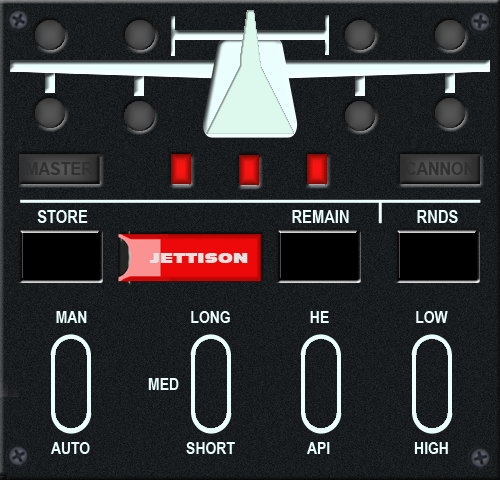
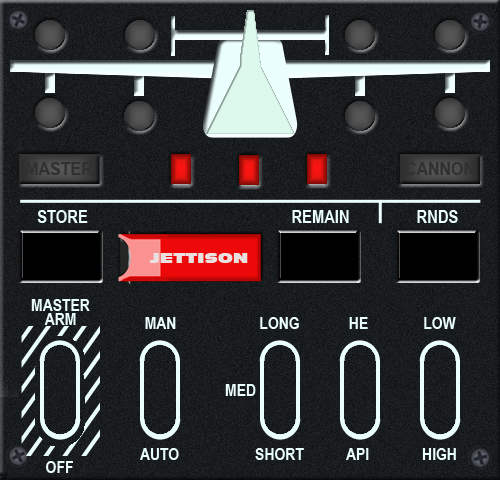
Weapon Panel #2 on KA50

diff --git a/Ka50-Pit.html b/Ka50-Pit.html
@@ -106,7 +106,7 @@
 		
 		<area shape="rect" coords="10,20,90,80" href="javascript:menu_Toggle('Light')">
 		<area shape="rect" coords="10,80,90,120" href="javascript:menu_Toggle('Vierge')">
-		<area shape="rect" coords="10,120,90,180" href="javascript:menu_Toggle('Electric_DC')">
+		<area shape="rect" coords="10,120,90,180" href="javascript:menu_Toggle('Vierge')">
 		<area shape="rect" coords="10,180,90,220" href="javascript:menu_Toggle('Start')">
 		<area shape="rect" coords="10,220,90,280" href="javascript:menu_Toggle('Vierge')">
 		<area shape="rect" coords="10,280,90,320" href="javascript:menu_Toggle('Vierge')">		
@@ -115,8 +115,8 @@
 		<area shape="rect" coords="10,420,90,480" href="javascript:menu_Toggle('Abris')">
 		<area shape="rect" coords="10,480,90,520" href="javascript:menu_Toggle('Vierge')">
 		<area shape="rect" coords="10,520,90,580" href="javascript:menu_Toggle('Datalink')">
-		<area shape="rect" coords="10,580,90,620" href="javascript:menu_Toggle('Weapon')">
-		<area shape="rect" coords="10,620,90,680" href="javascript:menu_Toggle('UV26')">
+		<area shape="rect" coords="10,580,90,620" href="javascript:menu_Toggle('Vierge')">
+		<area shape="rect" coords="10,620,90,680" href="javascript:menu_Toggle('Combat')">
 		<area shape="rect" coords="10,680,90,720" href="javascript:menu_Toggle('Vierge')">
 		<area shape="rect" coords="10,720,90,780" href="javascript:menu_Toggle('Vierge')">
 		<area shape="rect" coords="10,780,90,820" href="javascript:menu_Toggle('Vierge')">
@@ -1086,9 +1086,7 @@
 			<!-- Bouton Mun,Tir,Ammo,Rafale -->
 			<area shape="rect" coords="40,300,100,335" href="javascript:CmdDCSRaw('11200501')">
 			<area shape="rect" coords="40,430,100,465" href="javascript:CmdDCSRaw('11200500')">
-			<area shape="rect" coords="185,300,240,335" href="javascript:CmdDCSRaw('41200402')">
-			<area shape="rect" coords="130,360,190,400" href="javascript:CmdDCSRaw('41200401')">
-			<area shape="rect" coords="185,430,240,465" href="javascript:CmdDCSRaw('41200400')">
+
 			<area shape="rect" coords="290,300,350,335" href="javascript:CmdDCSRaw('11200601')">
 			<area shape="rect" coords="290,430,350,465" href="javascript:CmdDCSRaw('11200600')">
 			<area shape="rect" coords="400,300,460,335" href="javascript:CmdDCSRaw('11202001')">
@@ -1156,21 +1154,152 @@
 	<SPAN style="position: absolute; left: 280px; top: 230px; width: 70px; height: 50px ; color:green; text-align:right; font-size:300%" id="Ammo_remain"> </SPAN>
 	<SPAN style="position: absolute; left: 400px; top: 230px; width: 70px; height: 50px ; color:green; text-align:right; font-size:300%" id="Ammo_rnds"> </SPAN>
 	
+		
+	<!-- Switch Master Arm -->
+	<SPAN style="position: absolute; left: 40px; top: 340px; width: 40px; height: 100px">
+	<img src="images/switch/Switch-Metal-D4.png" width="40" height="100" id="SW_Master" usemap="#wpn_marm"> 
+	<map name="wpn_marm">	
+	<area shape="rect" coords="0,0,40,49"  href="javascript:CmdDCSRaw('11200101')"> 
+	<area shape="rect" coords="0,50,40,100"  href="javascript:CmdDCSRaw('11200100')"> 
+	</map>
+	</SPAN>
+	
+	<SPAN style="position: absolute; left: 140px; top: 340px; width: 40px; height: 100px">
+	<img src="images/switch/Switch-Metal-U4.png" width="40" height="100" id="Wpn_Man" usemap="#SWpn_Man"> 
+	<map name="SWpn_Man">	
+	<area shape="rect" coords="0,0,40,49"  href="javascript:CmdDCSRaw('11200501')"> 
+	<area shape="rect" coords="0,50,40,100"  href="javascript:CmdDCSRaw('11200500')"> 
+	</map>
+	</SPAN>
+	
+	<SPAN style="position: absolute; left: 260px; top: 340px; width: 40px; height: 100px">
+	<img src="images/switch/Switch-Metal-C4V.png" width="40" height="100" id="Wpn_Burst" usemap="#SWpn_Burst"> 
+	<map name="SWpn_Burst">	
+	<area shape="rect" coords="0,0,40,32"  href="javascript:CmdDCSRaw('41200402')"> 
+	<area shape="rect" coords="0,33,40,66"  href="javascript:CmdDCSRaw('41200401')"> 
+	<area shape="rect" coords="0,67,40,100"  href="javascript:CmdDCSRaw('41200400')"> 
+	</map>
+	</SPAN>
+	
+	<SPAN style="position: absolute; left: 341px; top: 340px; width: 40px; height: 100px">
+	<img src="images/switch/Switch-Metal-D4.png" width="40" height="100" id="Wpn_Ammo" usemap="#SWpn_Ammo"> 
+	<map name="SWpn_Ammo">	
+	<area shape="rect" coords="0,0,40,49"  href="javascript:CmdDCSRaw('11200601')"> 
+	<area shape="rect" coords="0,50,40,100"  href="javascript:CmdDCSRaw('11200600')"> 
+	</map>
+	</SPAN>
+	
+	<SPAN style="position: absolute; left: 420px; top: 340px; width: 40px; height: 100px">
+	<img src="images/switch/Switch-Metal-D4.png" width="40" height="100" id="Wpn_Rof" usemap="#SWpn_Rof"> 
+	<map name="SWpn_Rof">	
+	<area shape="rect" coords="0,0,40,49"  href="javascript:CmdDCSRaw('11202001')"> 
+	<area shape="rect" coords="0,50,40,100"  href="javascript:CmdDCSRaw('11202000')"> 
+	</map>
+	</SPAN>
+	
+
+</div>
+
+<!-- xxxxxxxxxxxxxxxxxxxxxxxxxxxxxxxxxxxxxxxxxxxxxxxxxxxxxxxxxxxxxxxxxxxxxxxxxxxxxxxxxxxxxxxxxxxxxxxxxxxxx -->
+
+<div id="Panel_Weapon_2">
+
+	<img src="images/weapon/Weapon_Panel_2.png" width="500" height="300" usemap="#Weapon2_P">
+
+	<map name="Weapon2_P">
+
+			<!-- Bouton Autoturn, AAHO, AA, MOV, RESET -->
+			<area shape="rect" coords="120,15,190,85" href="javascript:CmdDCSRaw('51201001')">
+			<area shape="rect" coords="220,15,290,85" href="javascript:CmdDCSRaw('51201201')">
+			<area shape="rect" coords="120,95,190,165" href="javascript:CmdDCSRaw('51201101')">
+			<area shape="rect" coords="220,95,290,165" href="javascript:CmdDCSRaw('51201301')">
+			<area shape="rect" coords="400,200,470,270" href="javascript:CmdDCSRaw('51201601')">
+			
+			
+			<!-- Selecteur du mode Canon-->
+			<area shape="circle" coords="360,40,20" href="javascript:CmdDCSRaw('41201400')">
+			<area shape="circle" coords="415,40,20" href="javascript:CmdDCSRaw('41201401')">
+			<area shape="circle" coords="450,70,20" href="javascript:CmdDCSRaw('41201402')">
+			<area shape="circle" coords="470,100,20" href="javascript:CmdDCSRaw('41201403')">
+			<area shape="circle" coords="475,145,20" href="javascript:CmdDCSRaw('41201404')">
+		
+	</map> 
+	
+	<!-- Voyant Mode de Tir -->
+	
+	<SPAN style="position: absolute; left: 130px; top: 60px; width: 50px; height: 16px">
+	<img src="images/navigation/Led_Btn_Vert.png" width="50" height="16" id="wpn_autoturn">
+	</SPAN>
+	<SPAN style="position: absolute; left: 230px; top: 60px; width: 50px; height: 16px">
+	<img src="images/navigation/Led_Btn_Vert.png" width="50" height="16" id="wpn_AAHO">
+	</SPAN>
+	<SPAN style="position: absolute; left: 130px; top: 140px; width: 50px; height: 16px">
+	<img src="images/navigation/Led_Btn_Vert.png" width="50" height="16" id="wpn_AA">
+	</SPAN>
+	<SPAN style="position: absolute; left: 230px; top: 140px; width: 50px; height: 16px">
+	<img src="images/navigation/Led_Btn_Vert.png" width="50" height="16" id="wpn_MOVGRND">
+	</SPAN>
+	<SPAN style="position: absolute; left: 410px; top: 245px; width: 50px; height: 16px">
+	<img src="images/navigation/Led_Btn_Vert.png" width="50" height="16" id="wpn_RESET">
+	</SPAN>
+		
 	<!-- Selecteur Man/Auto-->
-	<SPAN style="position: absolute; left: 32px; top: 345px; width: 80px; height: 80px">
-	<img src="images/Switch-Metal-U3.gif" width="80" height="80" id="Wpn_Man"> </SPAN>
+	<!-- Selecteur Train/Off -->
+	<SPAN style="position: absolute; left: 40px; top: 35px; width: 40px; height: 100px">
+	<img src="images/switch/Switch-Metal-D4.png" width="40" height="100" id="SW_wpn_train" usemap="#wpn_train"> 
+	<map name="wpn_train">	
+	<area shape="rect" coords="0,0,40,49"  href="javascript:CmdDCSRaw('11200901')"> 
+	<area shape="rect" coords="0,50,40,100"  href="javascript:CmdDCSRaw('11200900')"> 
+	</map>
+	</SPAN>
 	
-	<SPAN style="position: absolute; left: 172px; top: 345px; width: 80px; height: 80px">
-	<img src="images/Switch-Metal-D3.gif" width="80" height="80" id="Wpn_Burst"> </SPAN>
+	<!-- Selecteur K-041 -->
+	<SPAN style="position: absolute; left: 40px; top: 185px; width: 40px; height: 100px">
+	<img src="images/switch/Switch-Metal-D4.png" width="40" height="100" id="SW_wpn_k041" usemap="#wpn_k041"> 
+	<map name="wpn_k041">	
+	<area shape="rect" coords="0,0,40,49"  href="javascript:CmdDCSRaw('15900201')"> 
+	<area shape="rect" coords="0,50,40,100"  href="javascript:CmdDCSRaw('15900200')"> 
+	</map>
+	</SPAN>
 	
-	<SPAN style="position: absolute; left: 282px; top: 345px; width: 80px; height: 80px">
-	<img src="images/Switch-Metal-D3.gif" width="80" height="80" id="Wpn_Ammo"> </SPAN>
+	<!-- Selecteur HMS -->
+	<SPAN style="position: absolute; left: 135px; top: 185px; width: 40px; height: 100px">
+	<img src="images/switch/Switch-Metal-D4.png" width="40" height="100" id="SW_wpn_hms" usemap="#wpn_hms"> 
+	<map name="wpn_hms">	
+	<area shape="rect" coords="0,0,40,49"  href="javascript:CmdDCSRaw('12300201')"> 
+	<area shape="rect" coords="0,50,40,100"  href="javascript:CmdDCSRaw('12300200')"> 
+	</map>
+	</SPAN>
 	
-	<SPAN style="position: absolute; left: 392px; top: 345px; width: 80px; height: 80px">
-	<img src="images/Switch-Metal-D3.gif" width="80" height="80" id="Wpn_Rof"> </SPAN>
+	<!-- Selecteur Canon Auto -->
+	<SPAN style="position: absolute; left: 235px; top: 185px; width: 40px; height: 100px">
+	<img src="images/switch/Switch-Metal-D4.png" width="40" height="100" id="SW_wpn_canmod" usemap="#wpn_canmod"> 
+	<map name="wpn_canmod">	
+	<area shape="rect" coords="0,0,40,49"  href="javascript:CmdDCSRaw('11201701')"> 
+	<area shape="rect" coords="0,50,40,100"  href="javascript:CmdDCSRaw('11201700')"> 
+	</map>
+	</SPAN>
+	
+	<!-- Selecteur LAS -->
+	<SPAN style="position: absolute; left: 340px; top: 185px; width: 40px; height: 100px">
+	<img src="images/switch/Switch-Metal-D4.png" width="40" height="100" id="SW_wpn_las" usemap="#wpn_las"> 
+	<map name="wpn_las">	
+	<area shape="rect" coords="0,0,40,49"  href="javascript:CmdDCSRaw('11100101')"> 
+	<area shape="rect" coords="0,50,40,100"  href="javascript:CmdDCSRaw('11100100')"> 
+	</map>
+	</SPAN>
+	
+	<!-- Molette du Selecteur Canon -->
+	<SPAN style="position: absolute; left: 360px; top: 55px; width: 60px; height: 150px">
+	<img src="images/navigation/Selecteur_demi.gif" width="60" height="150" id="wpn_Selec_can">
+	</SPAN>
+	
+	
+	
 
 
 </div>
+
 
 <!-- xxxxxxxxxxxxxxxxxxxxxxxxxxxxxxxxxxxxxxxxxxxxxxxxxxxxxxxxxxxxxxxxxxxxxxxxxxxxxxxxxxxxxxxxxxxxxxxxxxxxx -->
 

diff --git a/js/panel_weapon.js b/js/panel_weapon.js
@@ -31,26 +31,77 @@ function panel_weapon_update(KaTZPit_data){
 	document.getElementById('Ammo_remain').innerHTML = dataread_split_2(KaTZPit_data["Wpn_Ammo"])[1]
 	document.getElementById('Ammo_rnds').innerHTML = dataread_split_2(KaTZPit_data["Wpn_Ammo"])[0]
 	
+	// Switch Master Arm
+	if (dataread_posit(KaTZPit_data["Wpn_Ka_1"],7) ==1) {$("#SW_Master").attr('src','images/switch/Switch-Metal-U4.png')} 
+	else {$("#SW_Master").attr('src','images/switch/Switch-Metal-D4.png')}
+	
 	// Switch Man/auto
-	if (dataread_posit(KaTZPit_data["Wpn_SW_1"],6) ==1) {$("#Wpn_Man").attr('src','images/Switch-Metal-U3.gif')} 
-	else {$("#Wpn_Man").attr('src','images/Switch-Metal-D3.gif')}
+	if (dataread_posit(KaTZPit_data["Wpn_SW_1"],6) ==1) {$("#Wpn_Man").attr('src','images/switch/Switch-Metal-U4.png')} 
+	else {$("#Wpn_Man").attr('src','images/switch/Switch-Metal-D4.png')}
 	
 	// Switch Long/Med/Short
-	if (dataread_posit(KaTZPit_data["Wpn_SW_1"],5) ==2) {$("#Wpn_Burst").attr('src','images/Switch-Metal-U3.gif')} 
-	if (dataread_posit(KaTZPit_data["Wpn_SW_1"],5) ==1) {$("#Wpn_Burst").attr('src','images/Switch-Metal-L3.gif')} 
-	if (dataread_posit(KaTZPit_data["Wpn_SW_1"],5) ==0) {$("#Wpn_Burst").attr('src','images/Switch-Metal-D3.gif')} 
+	if (dataread_posit(KaTZPit_data["Wpn_SW_1"],5) ==2) {$("#Wpn_Burst").attr('src','images/switch/Switch-Metal-U4.png')} 
+	if (dataread_posit(KaTZPit_data["Wpn_SW_1"],5) ==1) {$("#Wpn_Burst").attr('src','images/switch/Switch-Metal-C4V.png')} 
+	if (dataread_posit(KaTZPit_data["Wpn_SW_1"],5) ==0) {$("#Wpn_Burst").attr('src','images/switch/Switch-Metal-D4.png')} 
 	
 	// Switch He/Api
-	if (dataread_posit(KaTZPit_data["Wpn_SW_1"],4) ==1) {$("#Wpn_Ammo").attr('src','images/Switch-Metal-U3.gif')} 
-	else {$("#Wpn_Ammo").attr('src','images/Switch-Metal-D3.gif')}
+	if (dataread_posit(KaTZPit_data["Wpn_SW_1"],4) ==1) {$("#Wpn_Ammo").attr('src','images/switch/Switch-Metal-U4.png')} 
+	else {$("#Wpn_Ammo").attr('src','images/switch/Switch-Metal-D4.png')}
 	// Switch Low/High
-	if (dataread_posit(KaTZPit_data["Wpn_SW_1"],3) ==1) {$("#Wpn_Rof").attr('src','images/Switch-Metal-U3.gif')} 
-	else {$("#Wpn_Rof").attr('src','images/Switch-Metal-D3.gif')}
+	if (dataread_posit(KaTZPit_data["Wpn_SW_1"],3) ==1) {$("#Wpn_Rof").attr('src','images/switch/Switch-Metal-U4.png')} 
+	else {$("#Wpn_Rof").attr('src','images/switch/Switch-Metal-D4.png')}
 	
 	
 
 
 }
+
+function panel_weapon2_update(KaTZPit_data){
+		
+	// Touche Autoturn, AAHO, AA, Mov, Reset
+	if (dataread_posit(KaTZPit_data["Wpn_Ka_2"],5) ==1) {$("#wpn_autoturn").fadeIn()} else {$("#wpn_autoturn").fadeOut()}
+	if (dataread_posit(KaTZPit_data["Wpn_Ka_2"],4) ==1) {$("#wpn_AAHO").fadeIn()} else {$("#wpn_AAHO").fadeOut()}
+	if (dataread_posit(KaTZPit_data["Wpn_Ka_2"],3) ==1) {$("#wpn_AA").fadeIn()} else {$("#wpn_AA").fadeOut()}
+	if (dataread_posit(KaTZPit_data["Wpn_Ka_2"],2) ==1) {$("#wpn_MOVGRND").fadeIn()} else {$("#wpn_MOVGRND").fadeOut()}
+	if (dataread_posit(KaTZPit_data["Wpn_Ka_2"],1) ==1) {$("#wpn_RESET").fadeIn()} else {$("#wpn_RESET").fadeOut()}
+	
+	// Switch Train
+	if (dataread_posit(KaTZPit_data["Wpn_Ka_1"],6) ==1) {$("#SW_wpn_train").attr('src','images/switch/Switch-Metal-U4.png')} 
+	else {$("#SW_wpn_train").attr('src','images/switch/Switch-Metal-D4.png')}
+	
+	// Switch K041
+	if (dataread_posit(KaTZPit_data["Wpn_Ka_1"],5) ==1) {$("#SW_wpn_k041").attr('src','images/switch/Switch-Metal-U4.png')} 
+	else {$("#SW_wpn_k041").attr('src','images/switch/Switch-Metal-D4.png')}
+	
+	// Switch HMS
+	if (dataread_posit(KaTZPit_data["Wpn_Ka_1"],4) ==1) {$("#SW_wpn_hms").attr('src','images/switch/Switch-Metal-U4.png')} 
+	else {$("#SW_wpn_hms").attr('src','images/switch/Switch-Metal-D4.png')}
+	
+	// Switch Autotrack
+	if (dataread_posit(KaTZPit_data["Wpn_Ka_1"],3) ==1) {$("#SW_wpn_canmod").attr('src','images/switch/Switch-Metal-U4.png')} 
+	else {$("#SW_wpn_canmod").attr('src','images/switch/Switch-Metal-D4.png')}
+	
+	// Switch Laser
+	if (dataread_posit(KaTZPit_data["Wpn_Ka_1"],2) ==1) {$("#SW_wpn_las").attr('src','images/switch/Switch-Metal-U4.png')} 
+	else {$("#SW_wpn_las").attr('src','images/switch/Switch-Metal-D4.png')}
+	
+	// Selecteur Canon
+	switch_Canon(dataread_posit(KaTZPit_data["Wpn_Ka_1"],1),1)
+
+}
+
+function switch_Canon(pos){
+	var c_origine = -5
+	var c_gain = 25
+	
+	$("#wpn_Selec_can").css({
+		'-moz-transform':'rotate('+(c_origine+c_gain*pos)+'deg)',
+		'-webkit-transform':'rotate('+(c_origine+c_gain*pos)+'deg)',
+		'-ms-transform':'rotate('+(c_origine+c_gain*pos)+'deg)',
+	})
+
+}
+
 
 function panel_uv26_update(KaTZPit_data){
 		

diff --git a/js/menu.js b/js/menu.js
@@ -35,8 +35,8 @@ function menu_Toggle(panel){
 	//if (Panel_On["APU"] == 0) {document.getElementById("Panel_APU").style.display = "none"}
 	//else {document.getElementById("Panel_APU").style.display = "block"}
 
-	if (Panel_On["Start"] == 0) {document.getElementById("Panel_Start").style.display = "none"}
-	else {document.getElementById("Panel_Start").style.display = "block"}
+	if (Panel_On["Start"] == 0) {document.getElementById("Panel_Start").style.display = "none" ; document.getElementById("Panel_Electric").style.display = "none"}
+	else {document.getElementById("Panel_Start").style.display = "block" ; document.getElementById("Panel_Electric").style.display = "block"}
 	
 	if (Panel_On["Oil"] == 0) {document.getElementById("Panel_Oil").style.display = "none"}
 	else {document.getElementById("Panel_Oil").style.display = "block"}
@@ -65,14 +65,22 @@ function menu_Toggle(panel){
 	else {document.getElementById("Panel_Navigation").style.display = "block"}
 
 		
-	if (Panel_On["Electric_DC"] == 0) {document.getElementById("Panel_Electric").style.display = "none"}
-	else {document.getElementById("Panel_Electric").style.display = "block"}
+	//if (Panel_On["Electric_DC"] == 0) {document.getElementById("Panel_Electric").style.display = "none"}
+	//else {document.getElementById("Panel_Electric").style.display = "block"}
 	
-	if (Panel_On["Weapon"] == 0) {document.getElementById("Panel_Weapon").style.display = "none"}
-	else {document.getElementById("Panel_Weapon").style.display = "block"}
+	if (Panel_On["Combat"] == 0) {
+	document.getElementById("Panel_Weapon").style.display = "none" ;
+	document.getElementById("Panel_Weapon_2").style.display = "none" ;
+	document.getElementById("Panel_UV26").style.display = "none"
+	}
+	else {
+	document.getElementById("Panel_Weapon").style.display = "block" ; 
+	document.getElementById("Panel_Weapon_2").style.display = "block" ;
+	document.getElementById("Panel_UV26").style.display = "block"
+	document.getElementById("Panel_Start").style.display = "none" ;
+	document.getElementById("Panel_Electric").style.display = "none"
+	}
 
-	if (Panel_On["UV26"] == 0) {document.getElementById("Panel_UV26").style.display = "none"}
-	else {document.getElementById("Panel_UV26").style.display = "block"}
 	
 	if (Panel_On["Doc"] == 0) {document.getElementById("Panel_Doc").style.display = "none"}
 	else {document.getElementById("Panel_Doc").style.display = "block"}

diff --git a/js/pit_init.js b/js/pit_init.js
@@ -7,7 +7,7 @@ function panel_On_init(){
 
 	console.log("Initialisation des panels affichés")
 
-var Panel_On = { Init:0, Breakers:0, Light:1, Electric_DC:1, Electric_AC:0, APU:0, Oil:1, Start:1, Rotor:1, Analog_1:0, Analog_2:0, 
+var Panel_On = { Init:0, Breakers:0, Combat:0, Light:1, Electric_DC:1, Electric_AC:0, APU:0, Oil:1, Start:1, Rotor:1, Analog_1:0, Analog_2:0, 
 	ARK_9:0, ARK_UD:0, Doppler:0, Radio_360:1, Fuel:0, Vierge:0, Navigation:0, Target:0, Weapon:1, UV26:1,
 	Pilototo:1, Datalink:1, Abris:1, PVI800:1, PVT800:1, Doc:0}
 
@@ -36,7 +36,7 @@ function paneldata_init(){
 		ARKUD:55500555,	ARK9_SW:55555, ARK9_F: 51506290, ARK9_Data:50005000, ARK9_T_Main:150, ARK9_T_Stby:150,
 		Doppler_d1:50005000, Doppler_d2:50005000, Doppler_f:555,
 		D15_drift:50005000, D15_drift_V:55, Sling_2D:50005000, Sling_3D:50005000, 
-		DLinkL1:5555, DLinkL2:55555, DLinkL3:555555, Tgt_Btn:5555, Wpn_Ka:55555555, Wpn_Lamp:55, Wpn_Flag:55555,Wpn_Ammo:50005000,Wpn_SW_1:555555,
+		DLinkL1:5555, DLinkL2:55555, DLinkL3:555555, Tgt_Btn:5555, Wpn_Ka:55555555, Wpn_Lamp:55, Wpn_Flag:55555,Wpn_Ammo:50005000,Wpn_SW_1:555555, Wpn_Ka_1:555555,Wpn_Ka_1:55555,
 		UV26_Data:50005000, UV26_Flag:5555, Abris1:50005000, Abris2:50005000, Abris3:50005000, 
 		Pvi800_1:0 , Pvi800_2:0, Pvi800_3:50005000, Pvi800_4:55555555 , Pvi800_5:5555555 , Pvi800_6:550,
 		Collectif:0,

diff --git a/js/pit.js b/js/pit.js
@@ -60,10 +60,10 @@ function pit_main(){
 	if (Panel_On["Light"]==1){panel_electric_light(KaTZPit_data)}	
 
 	// Electric Panel
-	if (Panel_On["Electric_DC"]==1) {panel_electric_update(KaTZPit_data)}
+	//if (Panel_On["Electric_DC"]==1) {panel_electric_update(KaTZPit_data)}
 		
-	// Start Panel
-	if (Panel_On["Start"]==1){panel_fuel_update(KaTZPit_data)}
+	// Start  : Start panel et Electric Panel
+	if (Panel_On["Start"]==1){panel_fuel_update(KaTZPit_data) ; panel_electric_update(KaTZPit_data)} 
 	
 	if (Panel_On["Rotor"]==1){panel_instrument_rotor(KaTZPit_data)}
 	
@@ -79,9 +79,9 @@ function pit_main(){
 	
 	if (Panel_On["Abris"]==1){panel_device_abris(KaTZPit_data)}	
 	
-	if (Panel_On["Weapon"]==1){panel_weapon_update(KaTZPit_data)}	
+	if (Panel_On["Weapon"]==1){panel_weapon_update(KaTZPit_data) ; panel_weapon2_update(KaTZPit_data); panel_uv26_update(KaTZPit_data)  }	
 
-	if (Panel_On["UV26"]==1){panel_uv26_update(KaTZPit_data)}	
+	//if (Panel_On["UV26"]==1){panel_uv26_update(KaTZPit_data)}	
 	
 	if (Panel_On["PVI800"]==1){panel_pvi_update(KaTZPit_data)}	
 	

diff --git a/css/KA50-Pit.css b/css/KA50-Pit.css
@@ -279,7 +279,7 @@ p {
 
 #Panel_Abris {
 	position: absolute;
-	top: 880px;
+	top: 1020px;
 	left: 2010px;
 	/* Dimension 500 x 180			              */
 	font-family:arial, sans-serif;
@@ -310,15 +310,23 @@ p {
 
 #Panel_Weapon {
 	position: absolute;
-	top: 630px;
+	top: 220px;
 	left: 2010px;
-	/* Dimension 500 x 200			              */
+	/* Dimension 500 x 480			              */
+	
+}
+
+#Panel_Weapon_2 {
+	position: absolute;
+	top: 710px;
+	left: 2010px;
+	/* Dimension 500 x 300			              */
 	
 }
 
 #Panel_UV26 {
 	position: absolute;
-	top: 630px;
+	top: 220px;
 	left: 2520px;
 	/* Dimension 500 x 200			              */
 	
